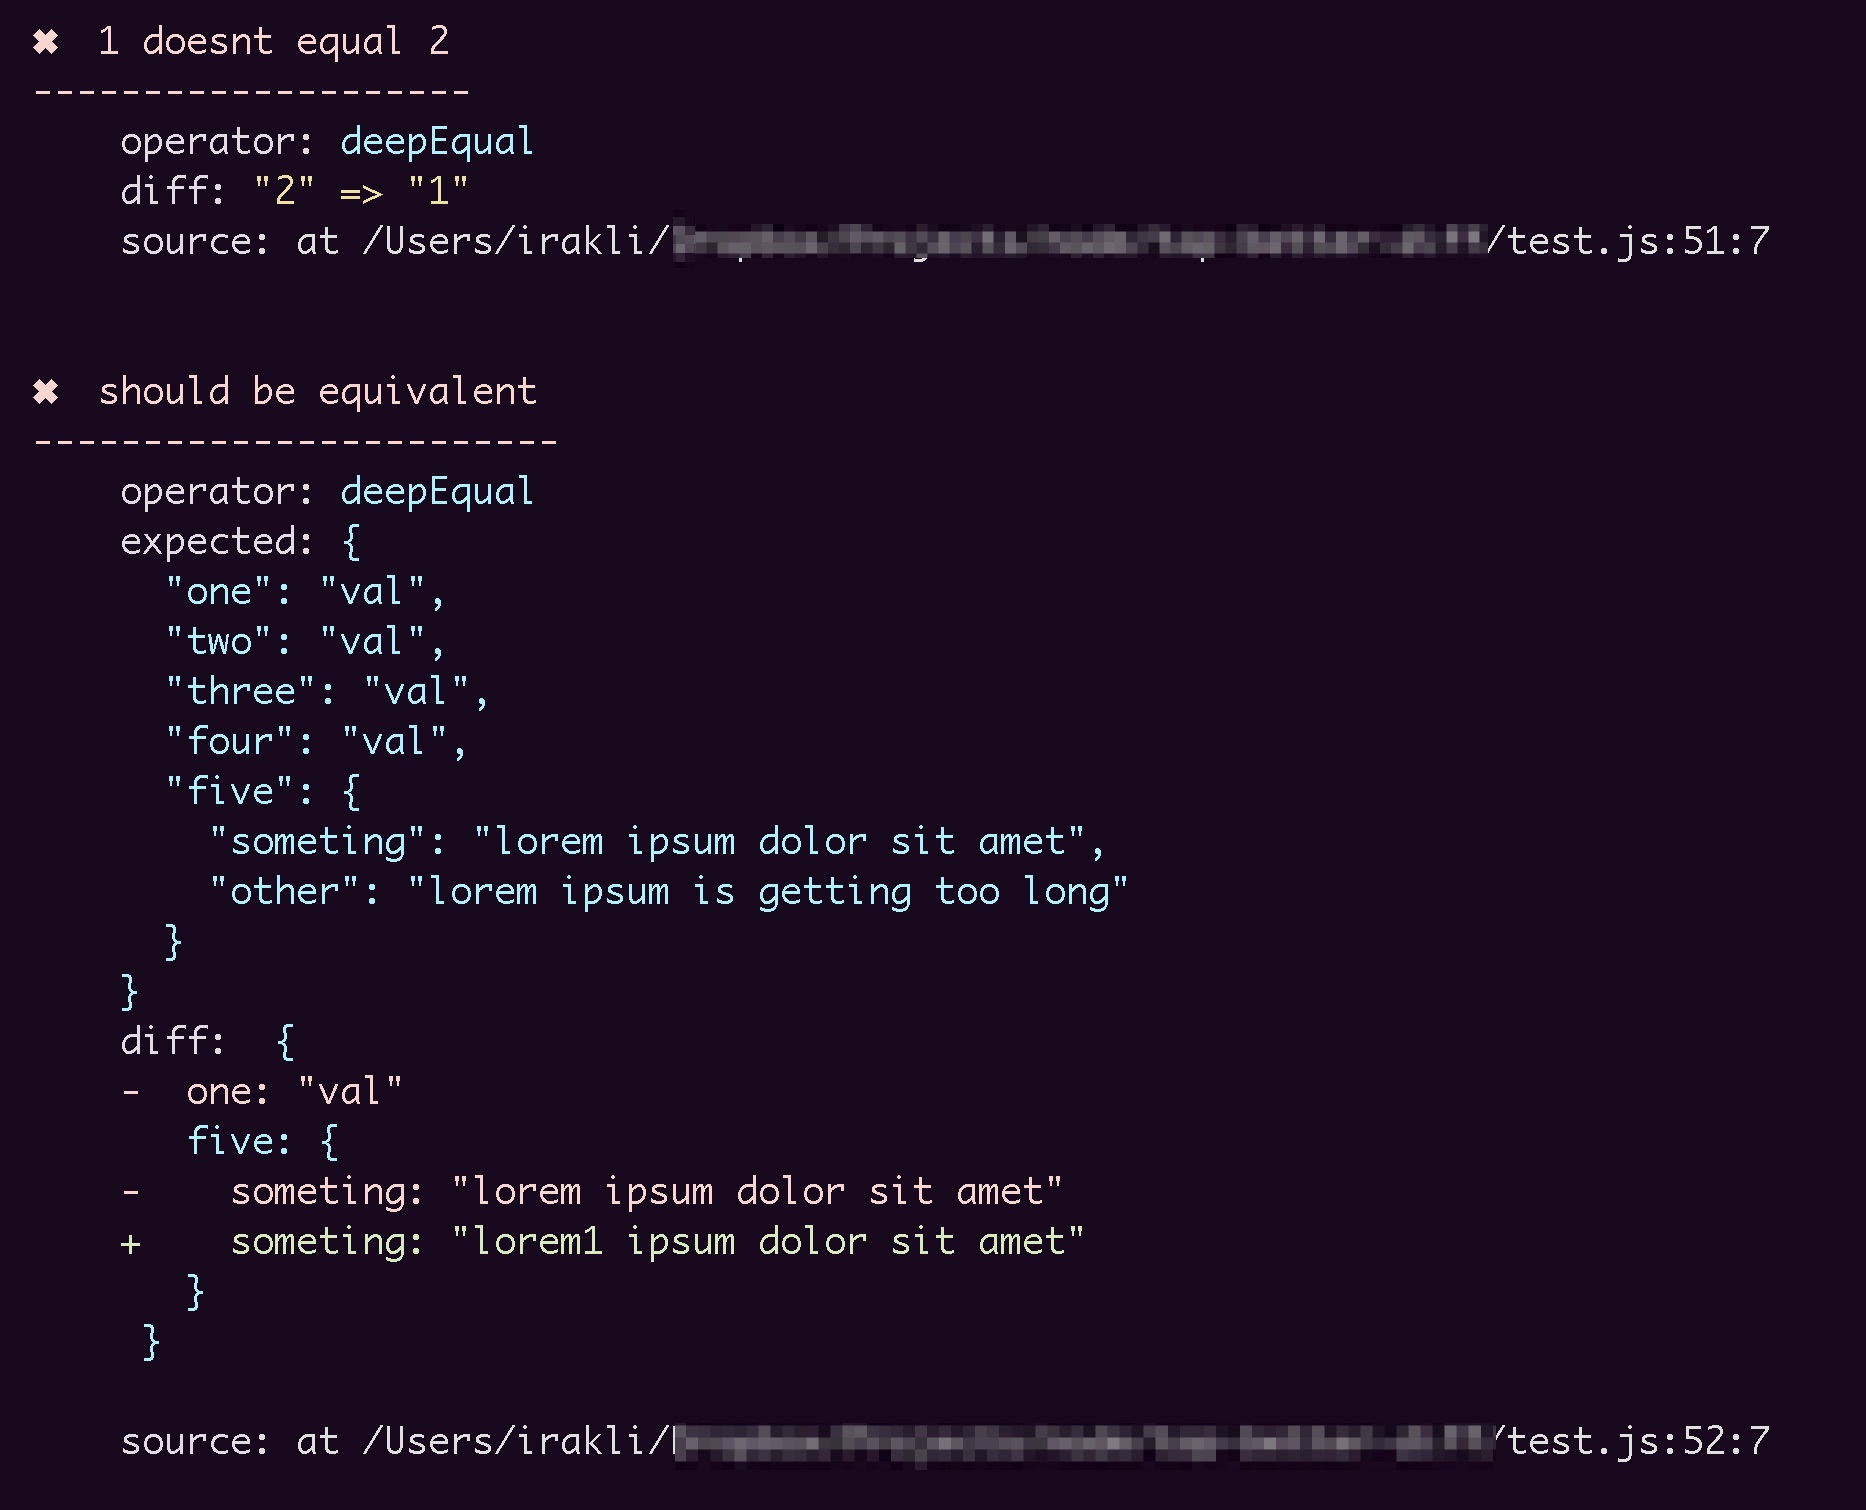
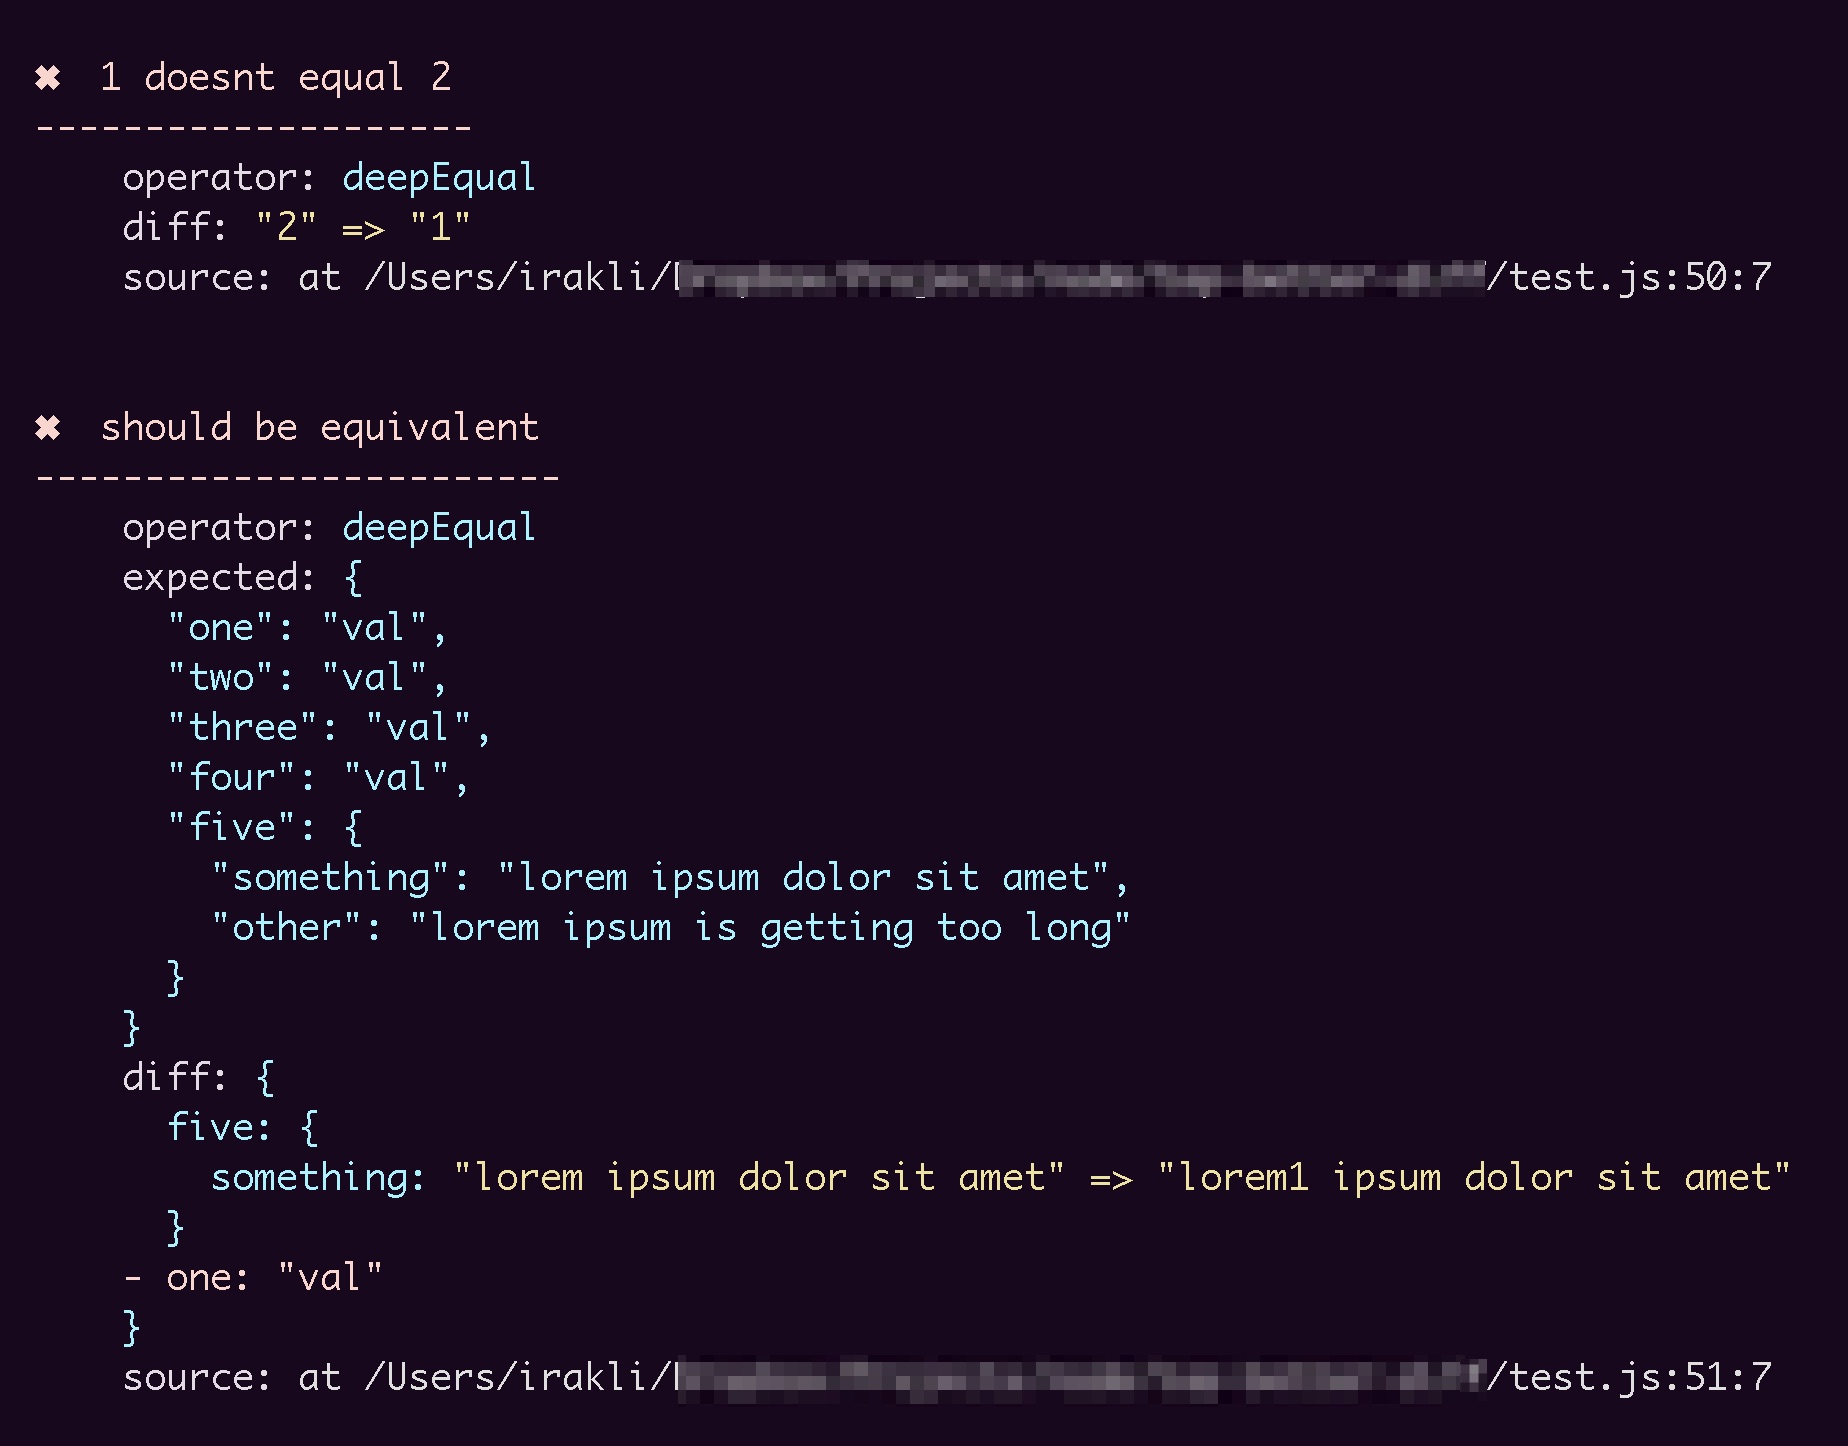
switching to variable diff across the board

diff --git a/test-large.js b/test-large.js
@@ -1,0 +1,138 @@
+#!/usr/bin/env node
+const through = require('through2');
+const duplexer = require('duplexer');
+
+var vdiff = require('variable-diff');
+
+var jsdiff = require('json-diff');
+var { colorize } = require('json-diff/lib/colorize');
+
+var jsondiffpatch = require("jsondiffpatch");
+
+const expected =  {
+  "class": ["order"],
+  "properties": {
+    "orderNumber": 42,
+    "foonull": null,
+    "itemCount": 3,
+    "status": "pending"
+  },
+  "entities": [
+    {
+      "properties": {"entityId": "kfk24", "amount": 999},
+      "rel": ["foo", "bar"],
+      "class": ["foo", "bar"],
+      "links": [{"rel": ["self"], "href": "http://api.x.io/foo/bar"}]
+    },
+    {
+      "class": ["items", "collection"],
+      "rel": ["http://x.io/rels/order-items"],
+      "href": "http://api.x.io/orders/42/items"
+    },
+    {
+      "class": ["items", "collection"],
+      "rel": ["http://x.io/rels/discounts", "second"],
+      "href": "http://api.x.io/discounts/52/items",
+      "title": "This is testing proper translation of link titles"
+    },
+    {
+      "properties": {"customerId": "pj123", "name": "Peter Joseph"},
+      "class": ["info", "customer"],
+      "rel": ["info", "customer"],
+      "links": [{"rel": ["self"], "href": "http://api.x.io/customers/pj123"}]
+    }
+  ],
+  "actions": [
+    {
+      "name": "add-item",
+      "title": "Add Item",
+      "method": "POST",
+      "href": "http://api.x.io/orders/42/items",
+      "type": "application/x-www-form-urlencoded",
+      "fields": [
+        {"name": "orderNumber", "type": "hidden", "value": "42"},
+        {"name": "productCode", "type": "text"},
+        {"name": "quantity", "type": "number"}
+      ]
+    }
+  ],
+  "links": [
+    {"rel": ["self"], "href": "http://api.x.io/orders/42"},
+    {"rel": ["previous"], "href": "http://api.x.io/orders/41"},
+    {"rel": ["next"], "href": "http://api.x.io/orders/43"}
+  ]
+};
+
+const actual =  {
+  "class": ["order"],
+  "properties": {
+    "orderNumber": 42,
+    "foonull": null,
+    "itemCount": 3,
+    "status": "pending"
+  },
+  "entities": [
+    {
+      "properties": {"entityId": "kfk24", "amount": 999},
+      "rel": ["foo", "bar"],
+      "class": ["foo", "bar"],
+      "links": [{"rel": ["self"], "href": "http://api.x.io/foo/bar"}]
+    },
+    {
+      "class": ["items", "collection"],
+      "rel": ["http://x.io/rels/order-items"],
+      "href": "http://api.x.io/orders/42/items"
+    },
+    {
+      "class": ["items", "collection"],
+      "rel": ["http://x.io/rels/discounts", "second"],
+      "href": "http://api.x.io/discounts/52/items",
+      "title": "This is testing proper translation of link titles",
+      "new": null
+    },
+    {
+      "properties": {"customerId": "pj123", "name": "Peter Joseph"},
+      "class": ["info", "customer"],
+      "rel": ["info", "customer"],
+      "links": [{"rel": ["self"], "href": "http://api.x.io/customers/pj123"}]
+    }
+  ],
+  "actions": [
+    {
+      "name": "add-item",
+      "title": "Add Item",
+      "method": "POST",
+      "href": "http://api.x.io/orders/42/items",
+      "type": "application/x-www-form-urlencoded",
+      "fields": [
+        {"name": "orderNumber", "type": "hidden", "value": "42"},
+        {"name": "productCode", "type": "text"},
+        {"name": "quantity", "type": "number"}
+      ]
+    }
+  ],
+  "links": [
+    {"rel": ["self"], "href": "http://api.x.io/orders/42"},
+    {"rel": ["previous"], "href": "http://api.x.io/orders/41"},
+    {"rel": ["next"], "href": "http://api.x.io/orders/43"}
+  ]
+};
+
+
+ 
+var difference = colorize(jsdiff.diff(expected, actual));
+console.log("json-diff");
+console.log(difference);
+
+
+// ---------
+
+console.log("variable-diff");
+result = vdiff(expected, actual).text;
+console.log(result);
+
+// --------
+console.log("jsondiffpatch");
+var delta = jsondiffpatch.diff(expected, actual);
+var deltaColor = jsondiffpatch.formatters.console.format(delta);
+console.log(deltaColor);

diff --git a/test-multi.js b/test-multi.js
@@ -1,0 +1,48 @@
+#!/usr/bin/env node
+const through = require('through2');
+const duplexer = require('duplexer');
+
+var vdiff = require('variable-diff');
+
+var jsdiff = require('json-diff');
+var { colorize } = require('json-diff/lib/colorize');
+
+var jsondiffpatch = require("jsondiffpatch");
+
+const expected = {
+  "one" : "val",
+  "two" : "val",
+  "three" : "val",
+  "four" : "val",
+  "five" : {
+    "someting" : "lorem ipsum dolor sit amet", "other" : "lorem ipsum is getting too long"
+  }      
+};
+
+const actual = {
+  "five" : {
+    "someting" : "lorem ipsum dolor sit amet", "other" : "lorem1 ipsum is getting too long"
+  },      
+  "four" : "val",
+  "three" : "val",
+  "two" : "val",
+};
+
+
+ 
+var difference = colorize(jsdiff.diff(expected, actual));
+console.log("json-diff");
+console.log(difference);
+
+
+// ---------
+
+console.log("variable-diff");
+result = vdiff(expected, actual).text;
+console.log(result);
+
+// --------
+console.log("jsondiffpatch");
+var delta = jsondiffpatch.diff(expected, actual);
+var deltaColor = jsondiffpatch.formatters.console.format(delta);
+console.log(deltaColor);

diff --git a/tap-nirvana.js b/tap-nirvana.js
@@ -11,10 +11,6 @@ const symbols = require('figures');
 const stringify = require("json-stringify-pretty-compact");
 const vdiff = require ("variable-diff");
 
-const jsdiff = require('json-diff');
-const { colorize } = require('json-diff/lib/colorize');
-
-
 function lTrimList (lines) {
   
   var leftPadding;
@@ -113,7 +109,7 @@ module.exports = function (spec) {
 
         if (typeof exObj == 'object' && typeof acObj == 'object') {
           errorMessage += format.magenta("expected: ") + expected + "\n";
-          var difference = colorize(jsdiff.diff(exObj, acObj));
+          var difference = vdiff(exObj, acObj).text;
           errorMessage += format.magenta("diff: ") + difference + "\n";
           const moreUsefulStack = removeUselessStackLines(assertion.error.stack);
           errorMessage += format.magenta("source: ") + format.gray(moreUsefulStack) + "\n";   
